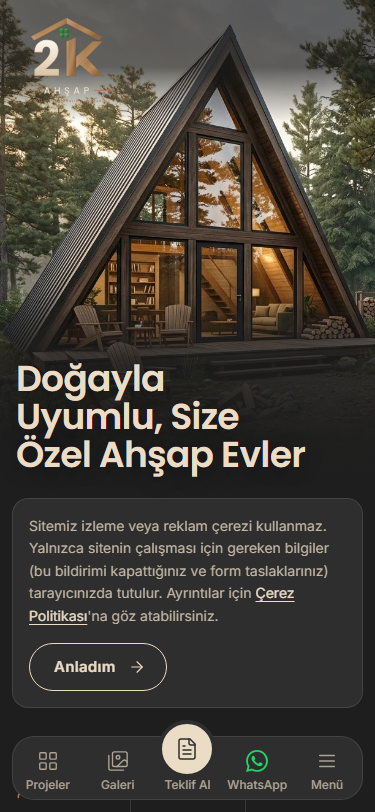
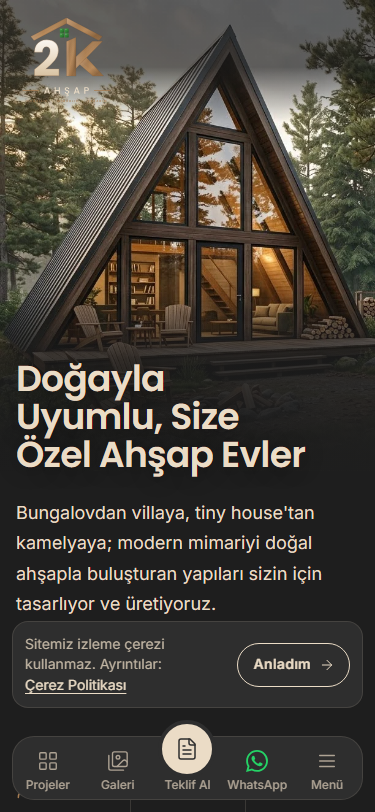
Çerez bandı mobilde kısa ve tek satır: kısa metin, sağda küçük "Anladım"
- < 768px: "Sitemiz izleme çerezi kullanmaz. Ayrıntılar: Çerez Politikası"; düğme metnin
  sağında, dokunma alanı 44px; iç boşluk 12px. 375px'te bant 87px (önceden 210px), Teklif Al
  dairesine 12px mesafe korundu. 320px'te düğme metnin altına geçer.
- ≥ 768px değişmedi (Ç 768 ve 1280 referansla %0 aynı). Görünmeyen metin display:none:
  ekran okuyucu ve klavye yalnızca görünen metni ve tek linki bulur.
- gorsel-kontrol: --sadece=ad,kod seçeneği (yalnızca etkilenen çekimler). Ç 375 referansı yenilendi.

diff --git a/docs/guvenli-mod/README.md b/docs/guvenli-mod/README.md
@@ -76,6 +76,7 @@ Seçenekler:
 - `--gurultu-yok`: gürültü toleransını kapatır; tek bir piksel farkı bile hata sayılır.
 - `--referans-yenile`: referansları baştan üretir. Yalnızca müşterinin onayladığı bir görünüm değişikliğinden sonra kullanılır.
 - `--referans-yenile=yasal-kvkk,iletisim`: yalnızca adı (veya kodu) verilen sayfaların referansını yeniler; diğerleri her zamanki gibi karşılaştırılır. Onaylı değişiklik birkaç sayfayla sınırlıysa bu kullanılır. Referansı olmayan yeni bir çekim ilk çalıştırmada kendiliğinden referans olur.
+- `--sadece=cerez-bandi`: yalnızca adı (veya kodu) verilen sayfaları çeker ve karşılaştırır. Değişikliğin etkilediği çekimler için kullanılır (CLAUDE.md "Çalışma Şekli"); tam set `main`'e birleştirmeden önce çalıştırılır.
 
 ### Gürültü toleransı
 
@@ -115,6 +116,7 @@ Tek pikselden küçük bir değişiklik (çok küçük puntoda bir nokta gibi) g
 | 20 Ekim 2026 | Bu satırı ekleyen commit (kod ve referanslar birlikte) | Ç eklendi (3 referans): çerez bilgilendirme bandı (kullanıcı onaylı). Mevcut 45 referans yenilenmedi. Aynı gün bu bilgisayarda 45 çekimin hepsi referanstan farklı çıktı, değişiklik öncesi HEAD'de (faabf27) de yüzdesine kadar aynı farklar (Bilinen sınırlar, yazı tipi çizimi). Kanıt aynı ortamda alındı: HEAD'in ve bant eklenmiş sürümün 45 çekimi piksel olarak aynı (40'ı bayt bayt). Ç ikinci koşuda %0 aynı. |
 | 20 Ekim 2026 | Bu satırı ekleyen commit (yalnızca referanslar) | 48 referansın tümü bu bilgisayarın yeni yazı tipi çizimiyle yenilendi (kullanıcı kararı; Bilinen sınırlar). Yenilenen derleme 4c8447c: çerez bandının metni "Sitemiz çerez kullanmaz…" oldu (Ç), yasal sayfaların "Son güncelleme" tarihi 14 Ekim → 20 Ekim 2026 oldu (Y). Diğer sayfaların farkı yalnızca yazı tipi çizimi. Yenilemeden sonraki ilk koşu 48/48 aynı, uyarı yok. |
 | 20 Ekim 2026 | Bu satırı ekleyen commit (kod ve referanslar birlikte) | Yalnızca İ ve Ç yenilendi (6 referans; kullanıcı talebi). İ: harita kutusunda statik harita görseli (OpenStreetMap, sitede barındırılır), konum işareti, OSM atfı, "Haritayı yükle" kartı ve notu; kutunun altında "Google Haritalar'da aç" linki. İ 375 ve 768 px'te 52 px uzadı (link), 1280 px'te boy aynı. Ç: bant metni "Sitemiz izleme veya reklam çerezi kullanmaz…" oldu. Yenilemeden önce fark yalnızca bu 6 çekimdeydi; diğer 42 çekim %0 aynıydı. Yenileme turunda A 375'te 24 piksellik tek seferlik oynama çıktı (aynı derleme); sonraki koşu 48/48 aynı. |
+| 20 Ekim 2026 | Bu satırı ekleyen commit (kod ve referans birlikte) | Yalnızca Ç 375 yenilendi (1 referans; kullanıcı talebi): mobilde (< 768px) kısa bant, "Sitemiz izleme çerezi kullanmaz. Ayrıntılar: Çerez Politikası" ve sağında küçük "Anladım" (dokunma alanı 44px), iç boşluk 12px; 375px'te bant 87px. Ç 768 ve 1280 %0 aynı (masaüstü değişmedi). Kontrol `--sadece=cerez-bandi` ile yapıldı; bant diğer çekimlerde kapalı olduğu için onları etkilemez. |
 
 ### Bilinen sınırlar
 
